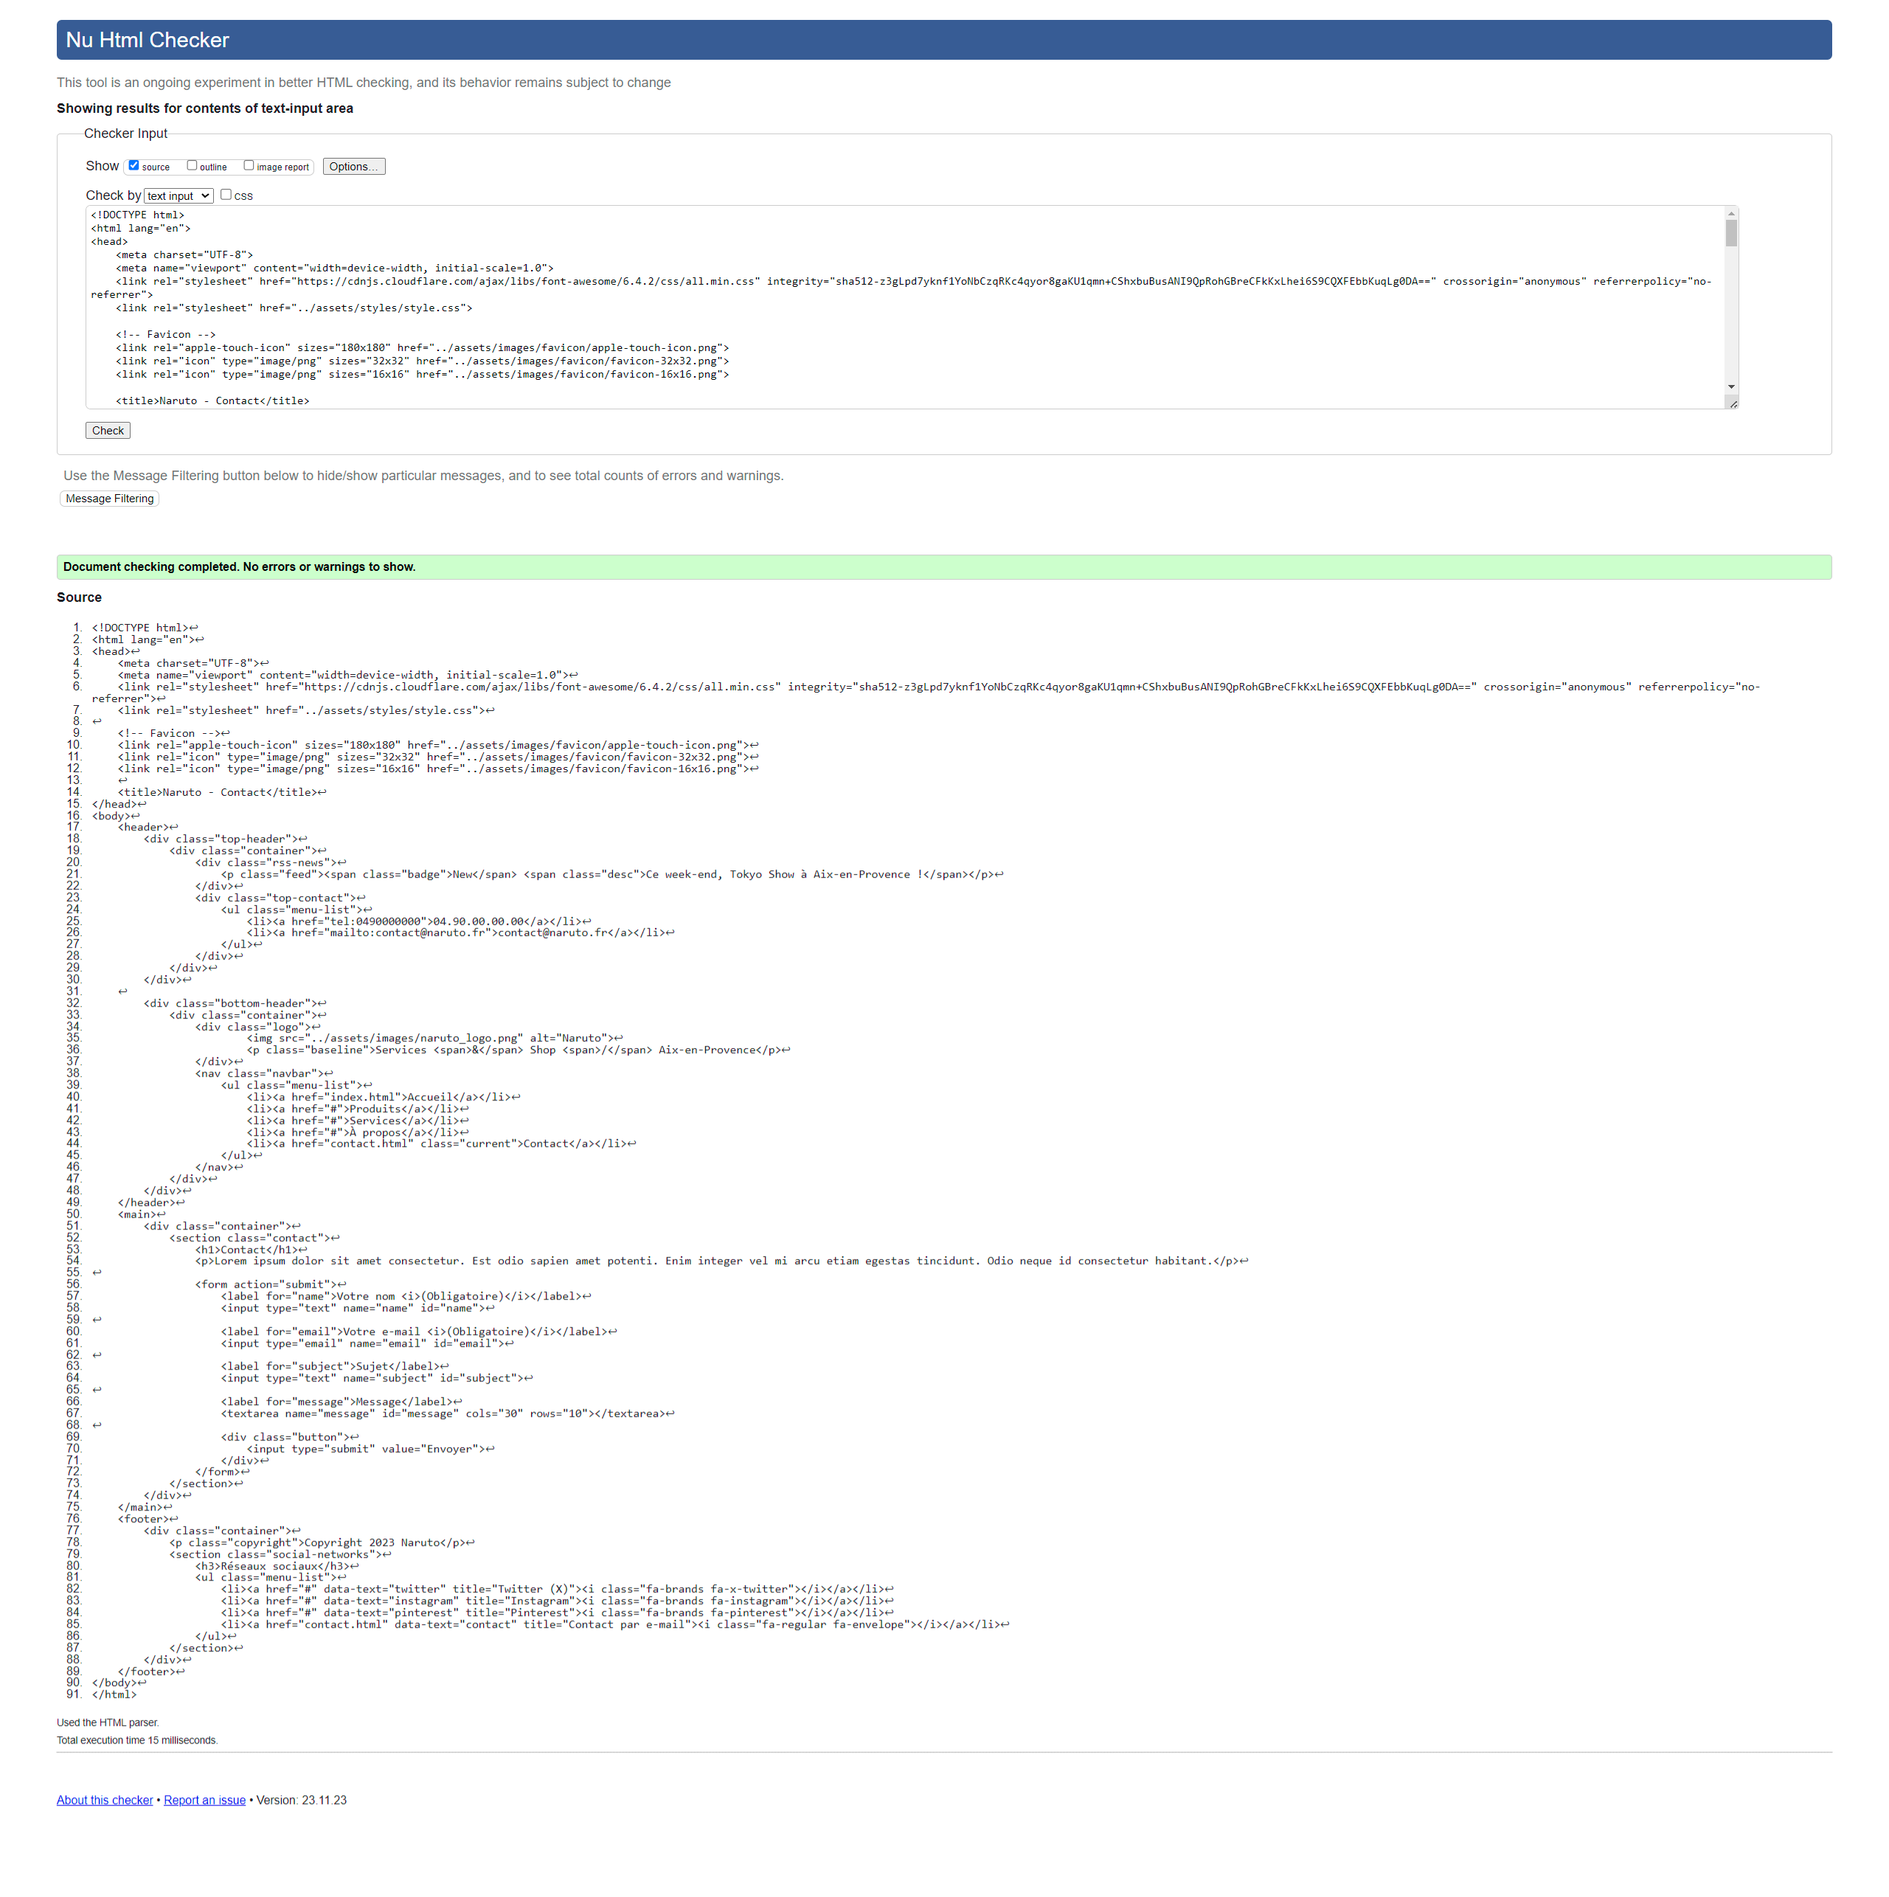
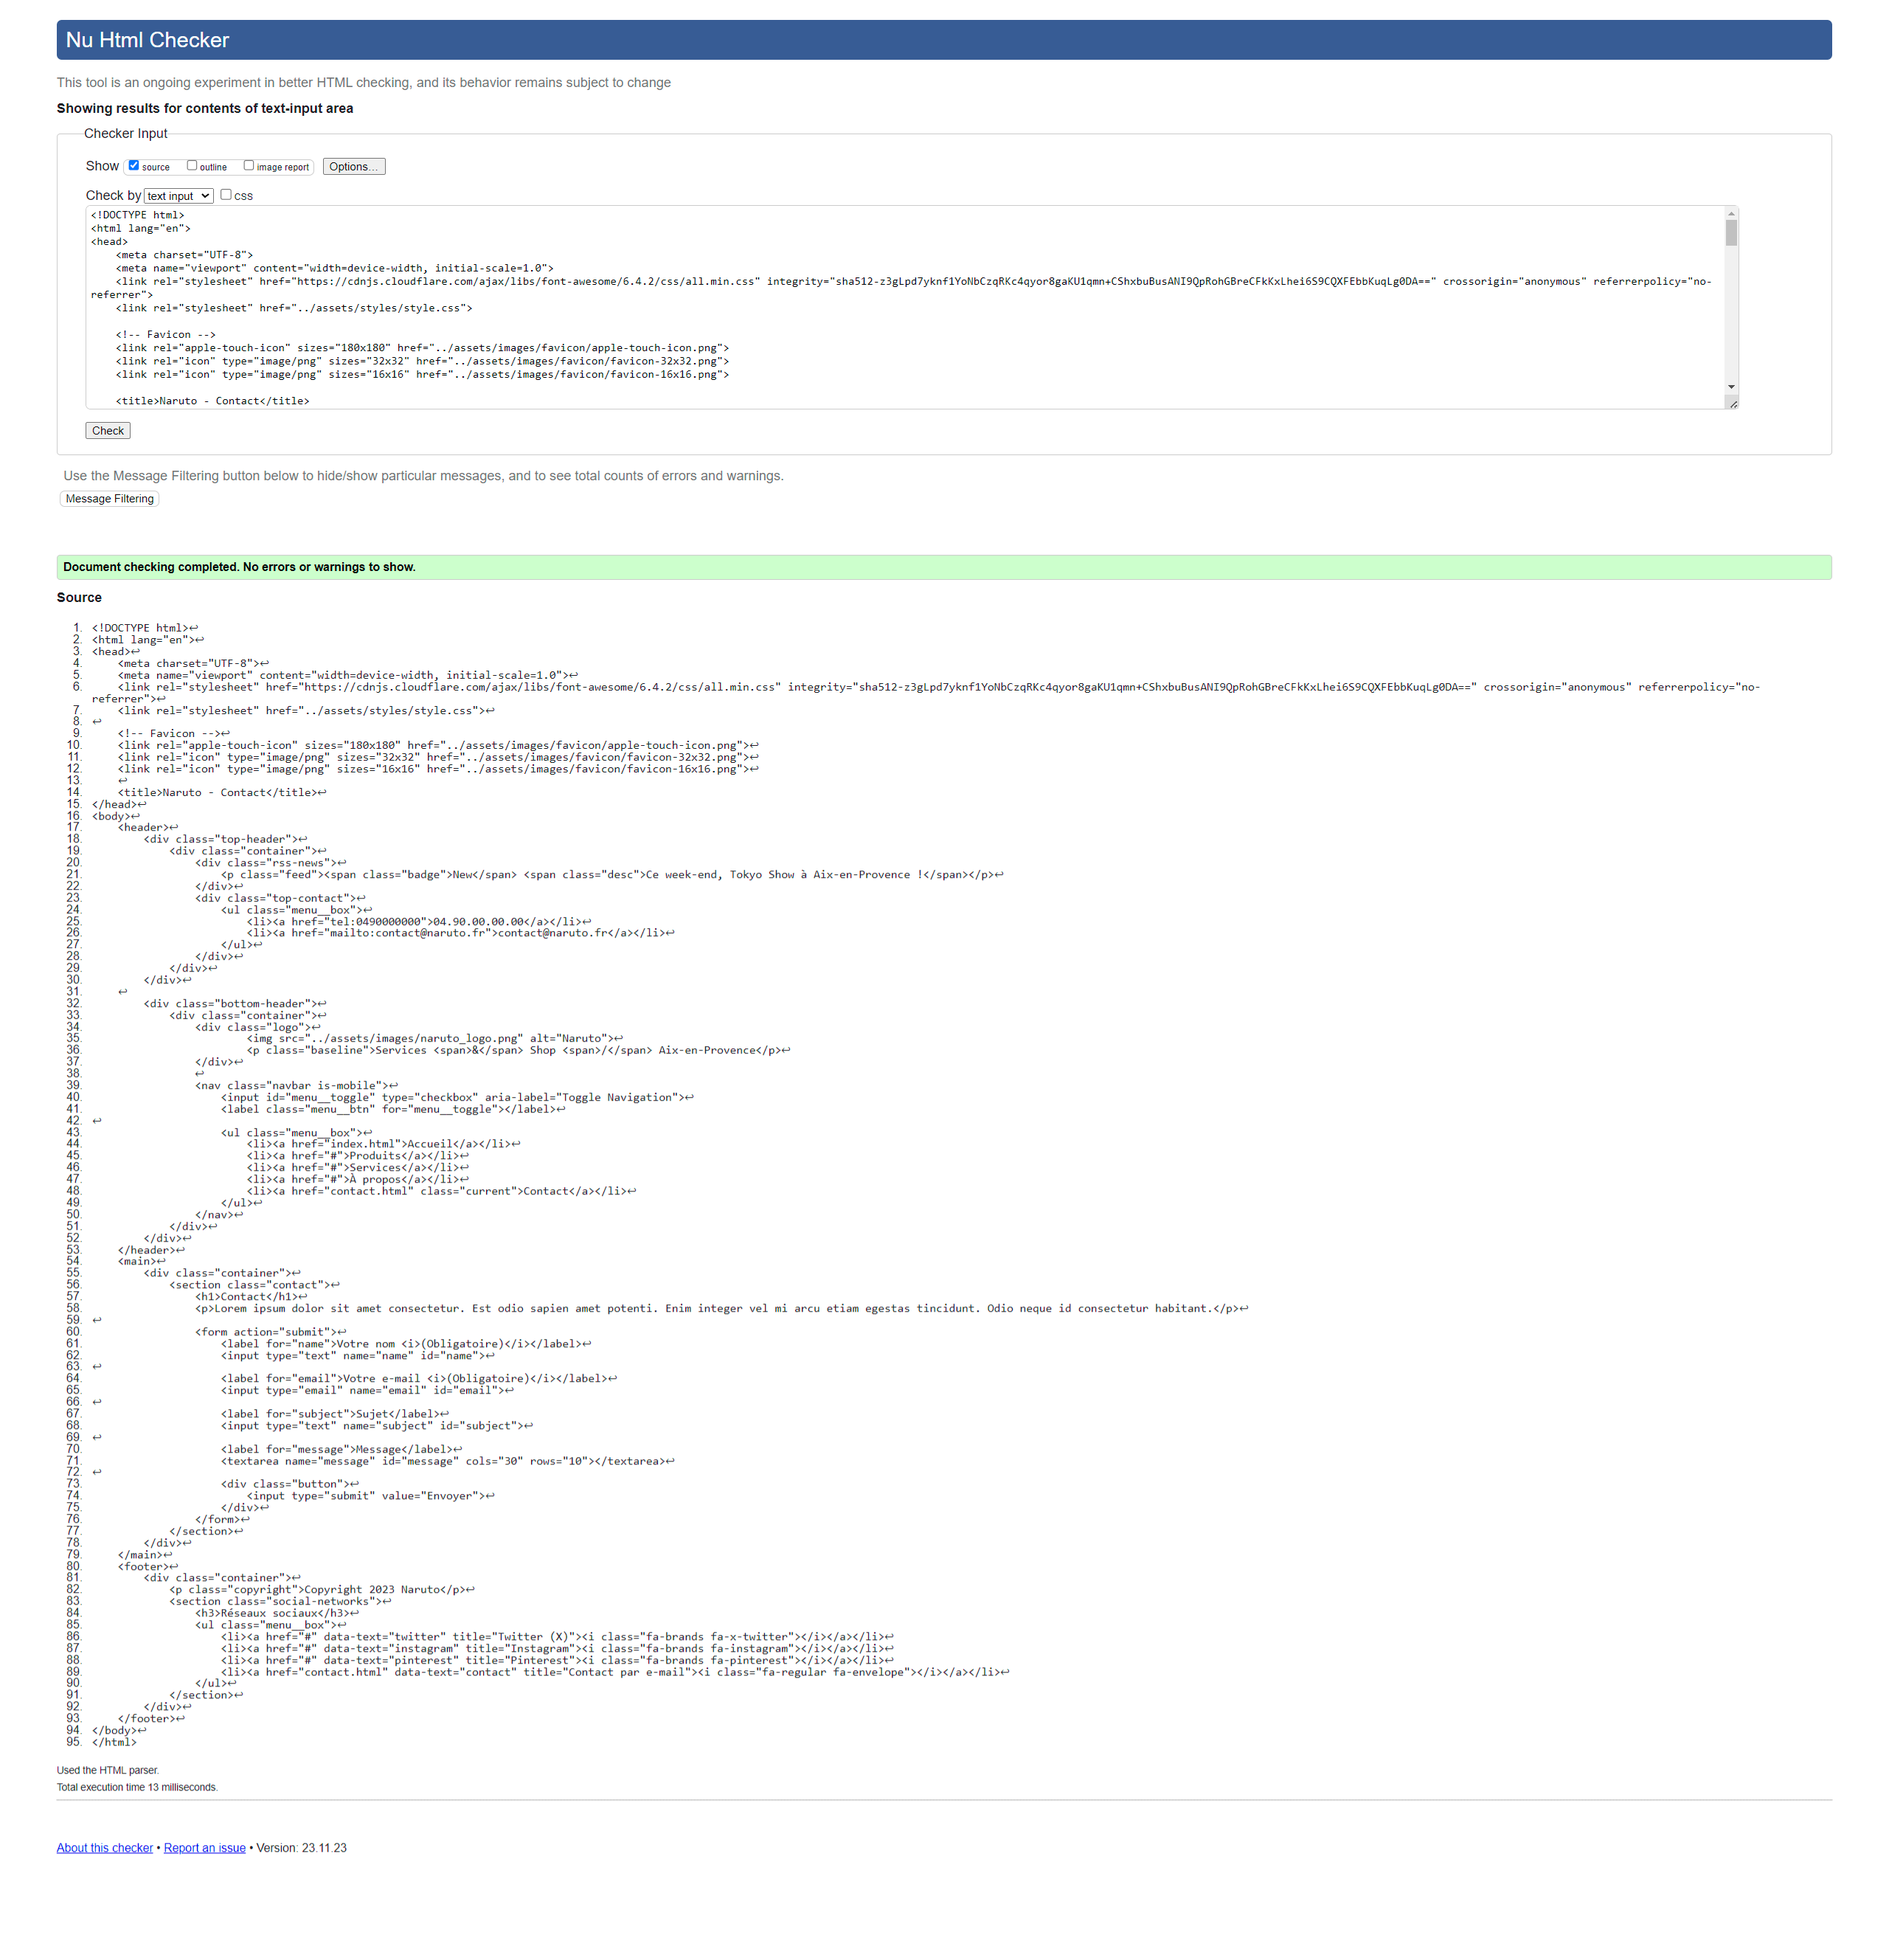
feat: add burger menu full CSS and Validator W3C screenshot

diff --git a/assets/styles/style.css b/assets/styles/style.css
@@ -172,10 +172,9 @@ header .container {
 
 /* Top Contact Info */
 
-.top-contact a {
+.top-contact .menu__box li a {
     color: #fff;
     font-size: var(--font-size-15);
-    transition: all 0.5s ease;
         
     &:hover,
     &:focus {
@@ -191,7 +190,6 @@ header .container {
         font-weight: 600;
         margin-right: 6px;
         color: rgba(255, 255, 255, 0.50);
-        transition: all 0.5s ease;
     }
 
     &[href^="tel:"]::before {
@@ -205,7 +203,11 @@ header .container {
 
 /* Menu NavBar */
 
-.menu-list {
+#menu__toggle {
+    appearance: none;
+}
+
+.menu__box {
     display: flex;
 
     .top-contact & {
@@ -222,12 +224,14 @@ header .container {
     }
 }
 
-.navbar a {
-    font-family: var(--font-family-title);
-    font-size: var(--font-size-24);
-    text-transform: uppercase;
-    color: var(--color-secondary);
-    transition: all 0.5s ease;
+.menu__box li a {
+
+    .navbar & {
+        font-size: var(--font-size-24);
+        font-family: var(--font-family-title);
+        text-transform: uppercase;
+        color: var(--color-secondary);
+    }
 
     &:hover,
     &:focus,
@@ -377,7 +381,6 @@ footer {
     border-radius: 50%;
     background-color: var(--color-primary);
     color: #fff;
-    transition: all 0.5s ease;
 
     &:hover,
     &:focus {
@@ -413,9 +416,66 @@ footer {
 
 /* Small devices (landscape phones, less than 768px) */
 @media screen and (max-width: 768px) { 
-    .navbar,
+
     .hero {
         display: none;
+    }
+    
+    /* Burger Menu Full CSS */
+
+    .is-mobile {
+        display: flex;
+        justify-content: center;
+        align-items: center;
+
+        #menu__toggle ~ .menu__box {
+            visibility: hidden;
+        }
+
+        #menu__toggle:checked ~ .menu__box {
+            visibility: visible;
+        }
+
+        #menu__toggle:checked ~ .menu__btn::before {
+            content: "\2715"; /* Unicode X Mark Icons */
+        }
+
+        .menu__btn {
+            position: relative;
+            cursor: pointer;
+            text-align: center;
+            z-index: 1;
+        }
+
+        .menu__btn::before {
+            content: "\2630"; /* Unicode Bars Icons */
+            display: block;
+            width: 100%;
+            height: 100%;
+            font-size: var(--font-size-24);
+            color: var(--color-secondary);
+        }
+
+        .menu__box {
+            position: absolute;
+            top: 0;
+            left: 0;
+            width: 100%;
+            height: 100vh;
+            z-index: 0;
+
+            flex-direction: column;
+            justify-content: center;
+            align-items: center;
+            gap: 32px;
+
+            font-size: var(--font-size-24);
+            background-color: #000;
+            
+            .navbar & {
+                gap: 2rem;
+            }
+        }
     }
 
     main {
@@ -423,6 +483,7 @@ footer {
             margin: 36px auto;
         }
     }
+
 }
 
 /* Medium devices (tablets, less than 992px) */
@@ -431,7 +492,7 @@ footer {
         display: none;
     }
 
-    .menu-list {
+    .menu__box {
         .navbar & {
             gap: 1.25rem;
         }
@@ -448,7 +509,7 @@ footer {
         display: none;
     }
 
-    .menu-list {
+    .menu__box {
         .top-header & {
             justify-content: flex-end;
         }

diff --git a/contact.html b/contact.html
@@ -21,7 +21,7 @@
                     <p class="feed"><span class="badge">New</span> <span class="desc">Ce week-end, Tokyo Show à Aix-en-Provence !</span></p>
                 </div>
                 <div class="top-contact">
-                    <ul class="menu-list">
+                    <ul class="menu__box">
                         <li><a href="tel:0490000000">04.90.00.00.00</a></li>
                         <li><a href="mailto:contact@naruto.fr">contact@naruto.fr</a></li>
                     </ul>
@@ -35,8 +35,12 @@
                         <img src="../assets/images/naruto_logo.png" alt="Naruto">
                         <p class="baseline">Services <span>&</span> Shop <span>/</span> Aix-en-Provence</p>
                 </div>
-                <nav class="navbar">
-                    <ul class="menu-list">
+                
+                <nav class="navbar is-mobile">
+                    <input id="menu__toggle" type="checkbox" aria-label="Toggle Navigation">
+                    <label class="menu__btn" for="menu__toggle"></label>
+
+                    <ul class="menu__box">
                         <li><a href="index.html">Accueil</a></li>
                         <li><a href="#">Produits</a></li>
                         <li><a href="#">Services</a></li>
@@ -78,7 +82,7 @@
             <p class="copyright">Copyright 2023 Naruto</p>
             <section class="social-networks">
                 <h3>Réseaux sociaux</h3>
-                <ul class="menu-list">
+                <ul class="menu__box">
                     <li><a href="#" data-text="twitter" title="Twitter (X)"><i class="fa-brands fa-x-twitter"></i></a></li>
                     <li><a href="#" data-text="instagram" title="Instagram"><i class="fa-brands fa-instagram"></i></a></li>
                     <li><a href="#" data-text="pinterest" title="Pinterest"><i class="fa-brands fa-pinterest"></i></a></li>

diff --git a/index.html b/index.html
@@ -21,7 +21,7 @@
                     <p class="feed"><span class="badge">New</span> <span class="desc">Ce week-end, Tokyo Show à Aix-en-Provence !</span></p>
                 </div>
                 <div class="top-contact">
-                    <ul class="menu-list">
+                    <ul class="menu__box">
                         <li><a href="tel:0490000000">04.90.00.00.00</a></li>
                         <li><a href="mailto:contact@naruto.fr">contact@naruto.fr</a></li>
                     </ul>
@@ -35,8 +35,12 @@
                         <img src="../assets/images/naruto_logo.png" alt="Naruto">
                         <p class="baseline">Services <span>&</span> Shop <span>/</span> Aix-en-Provence</p>
                 </div>
-                <nav class="navbar">
-                    <ul class="menu-list">
+
+                <nav class="navbar is-mobile">
+                    <input id="menu__toggle" type="checkbox" aria-label="Toggle Navigation">
+                    <label class="menu__btn" for="menu__toggle"></label>
+
+                    <ul class="menu__box">
                         <li><a href="index.html" class="current">Accueil</a></li>
                         <li><a href="#">Produits</a></li>
                         <li><a href="#">Services</a></li>
@@ -64,7 +68,7 @@
             <p class="copyright">Copyright 2023 Naruto</p>
             <section class="social-networks">
                 <h3>Réseaux sociaux</h3>
-                <ul class="menu-list">
+                <ul class="menu__box">
                     <li><a href="#" data-text="twitter" title="Twitter (X)"><i class="fa-brands fa-x-twitter"></i></a></li>
                     <li><a href="#" data-text="instagram" title="Instagram"><i class="fa-brands fa-instagram"></i></a></li>
                     <li><a href="#" data-text="pinterest" title="Pinterest"><i class="fa-brands fa-pinterest"></i></a></li>
